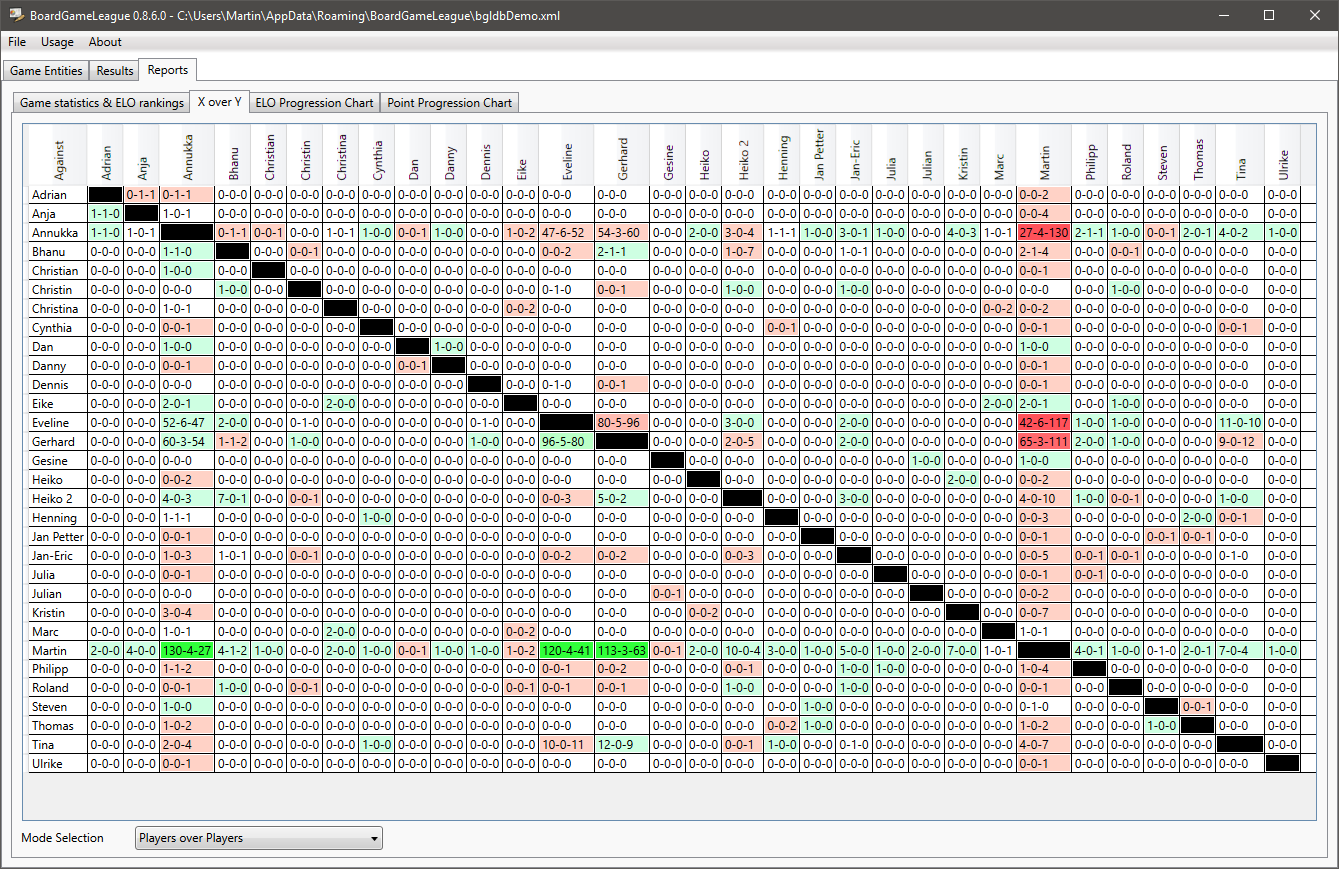
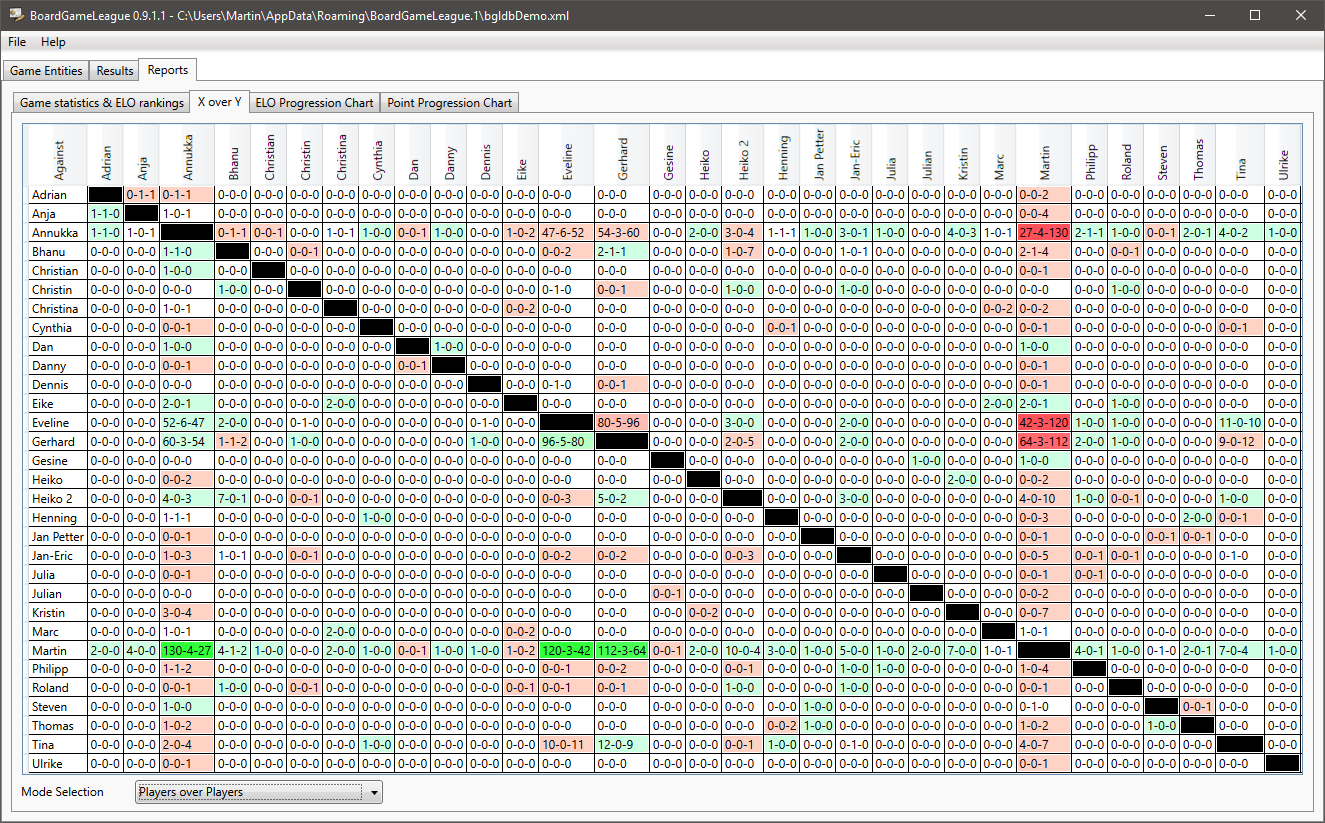
Fixed the last defect in the result counting in players over players.

diff --git a/BoardGameLeague/BoardGameLeagueLib/DbClasses/Result.cs b/BoardGameLeague/BoardGameLeagueLib/DbClasses/Result.cs
@@ -181,20 +181,13 @@ namespace BoardGameLeagueLib.DbClasses
 
                 if (v_IsWinner)
                 {
-                    if (v_ScoreActivePlayer == v_TempScore)
+                    if (a_GameType == Game.GameType.TeamedRanks)
                     {
-                        if (a_GameType == Game.GameType.TeamedRanks)
-                        {
-                            // Filter out: These are our team members.
-                        }
-                        else if (i_Score.IsWinner)
-                        {
-                            v_Standings[Modifier.Stalemate].Add(i_Score.IdPlayer);
-                        }
-                        else
-                        {
-                            v_Standings[Modifier.Win].Add(i_Score.IdPlayer);
-                        }
+                        // Filter out: These are our team members.
+                    }
+                    else if (i_Score.IsWinner)
+                    {
+                        v_Standings[Modifier.Stalemate].Add(i_Score.IdPlayer);
                     }
                     else
                     {
